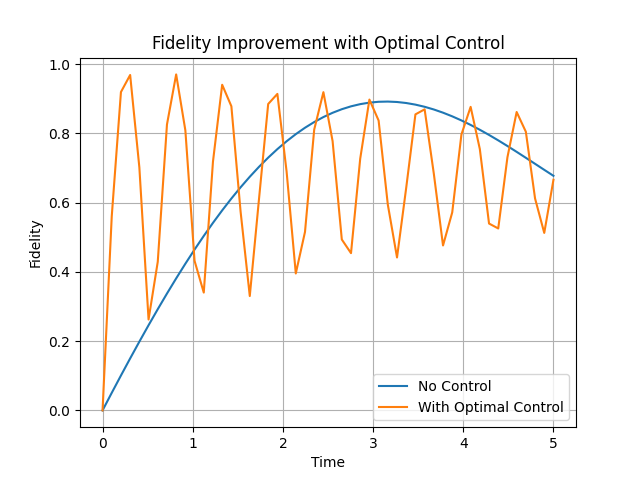
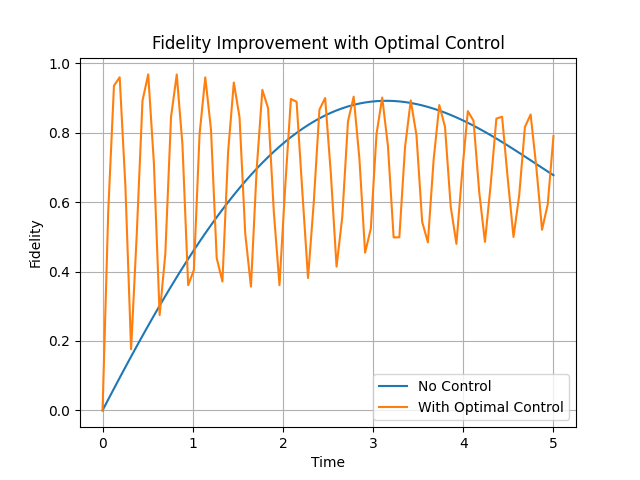
Feat: Compleated stage 5

Changed region(s): [[0.0938, 0.125, 0.9062, 0.8125], [0.0625, 0.6875, 0.125, 0.7188], [0.0938, 0.25, 0.125, 0.2812]]

diff --git a/main.py b/main.py
@@ -11,9 +11,6 @@ from control.control_analysis import compare_control_pulse
 from control.optimal_control import optimize_pulse
 from control.plot_optimal_pulse import plot_optimal_pulse
 from control.fidelity_comparison import compare_fidelity_with_without_control
-from control.run_grape_simulation import run_grape
-from control.grape_plots import plot_grape_results
-from control.grape_fidelity import fidelity_with_grape
 
 
 # Time
@@ -62,10 +59,3 @@ plot_optimal_pulse(pulse)
 
 
 compare_fidelity_with_without_control(pulse, noise)
-
-
-pulse, fidelity_history = run_grape(noise)
-
-plot_grape_results(pulse, fidelity_history)
-
-fidelity_with_grape(pulse, noise)

diff --git a/control/optimal_control.py b/control/optimal_control.py
@@ -3,7 +3,7 @@ from qutip import *
 from scipy.optimize import minimize
 
 def optimize_pulse(noise_ops, target_state):
-    N = 100
+    N = 80
     T = 5
     tlist = np.linspace(0, T, N)
 

diff --git a/config/parameters.py b/config/parameters.py
@@ -4,6 +4,9 @@ import numpy as np
 TIME_STEPS = 200
 TOTAL_TIME = 5
 
+T = 5
+N = 80
+
 # Noise parameters
 gamma_amplitude = 0.2
 gamma_phase = 0.15
